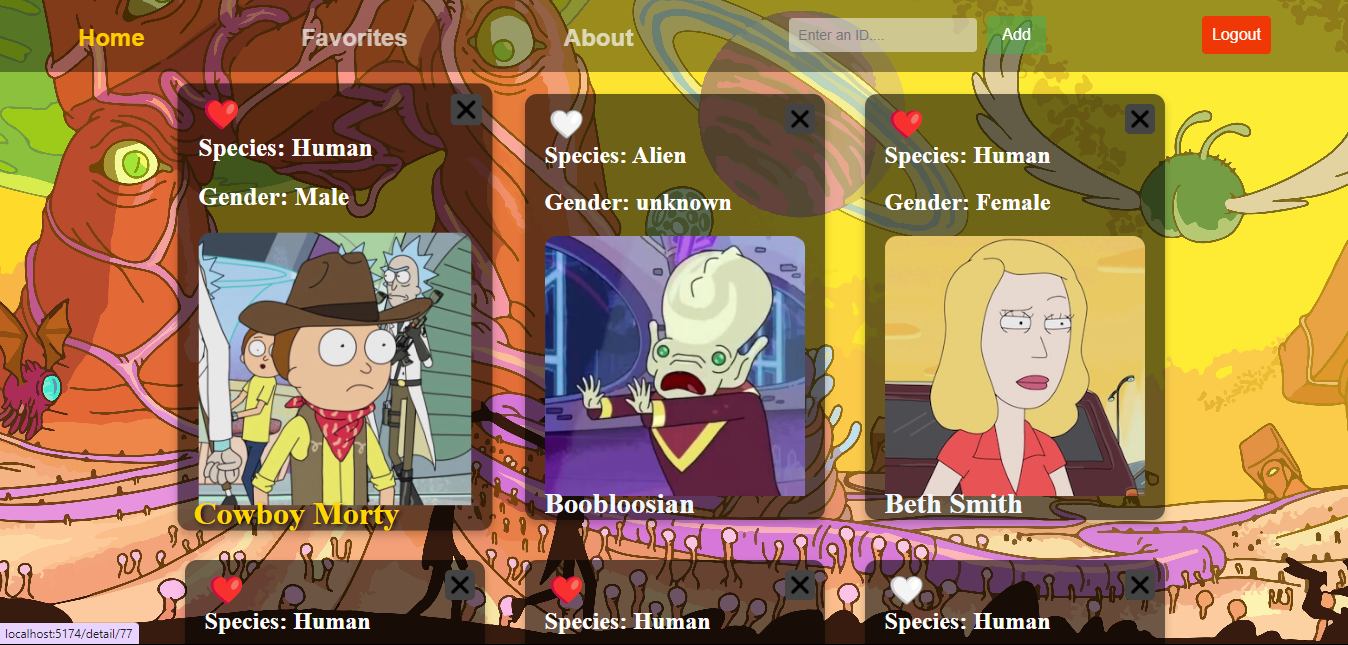
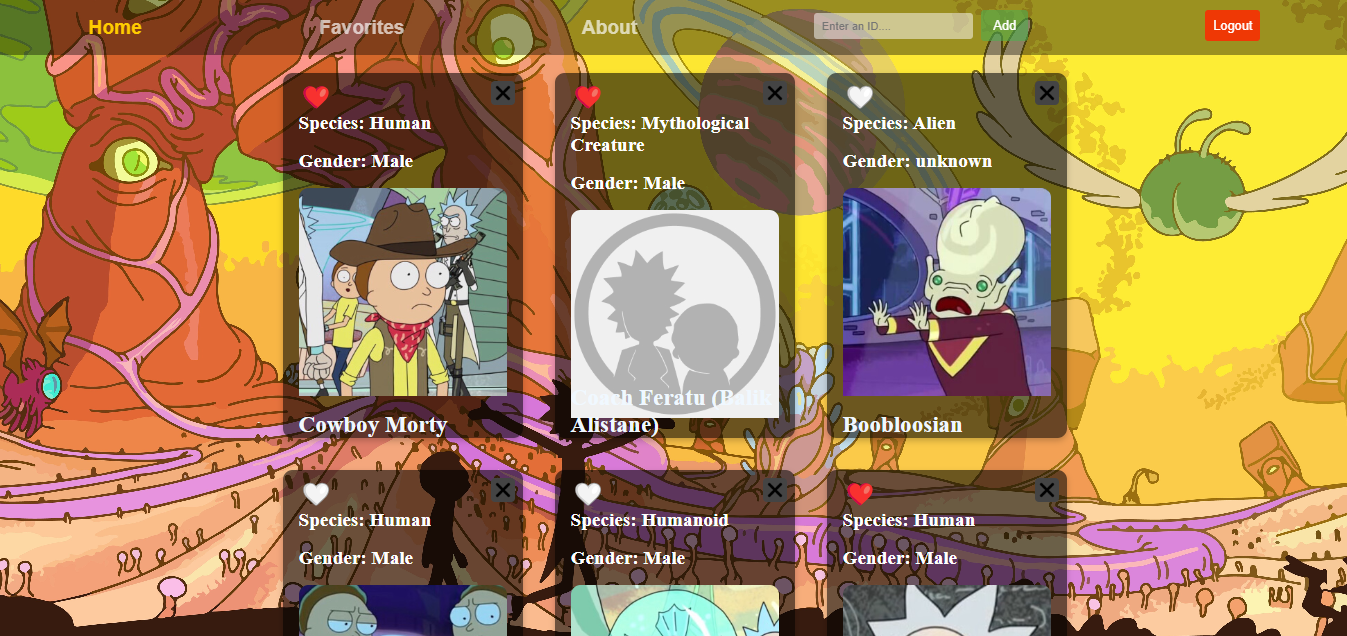
add RyM proyect

diff --git a/src/components/Projects.jsx b/src/components/Projects.jsx
@@ -4,7 +4,7 @@ import HeroesApp from '../assets/HeroesApp.png';
 import CountriesApp from '../assets/CountriesApp.png';
 import PetPalace from '../assets/PetPalace.jpeg';
 import Calendary from '../assets/Calendary.png'
-
+import RyM from '../assets/RyM.png'
 const projects = [
     {
         id: 1,
@@ -39,7 +39,7 @@ const projects = [
         deploy: ""
     },
     {
-        id: 7,
+        id: 6,
         name: "Gif App",
         technologies: "React.js, Bootstrap, CSS",
         image: GifApp,
@@ -47,13 +47,22 @@ const projects = [
         deploy: "https://castronicolas.github.io/react-GifApp/"
     },
     {
-        id: 6,
+        id: 7,
         name: "To Do App",
         technologies: "React.js, Bootstrap, CSS",
         image: ToDoApp,
         github: "https://github.com/CastroNicolas/react-tarea-app",
         deploy: "https://castronicolas.github.io/react-tarea-app/"
     },
+    {
+        id: 8,
+        name: "Rick and Morty App(Backend En Manteniemiento)",
+        technologies: "React.js, Node.js, Express, SQL, CSS",
+        image: RyM,
+        github: "https://github.com/CastroNicolas/RickAndMortyApp",
+        deploy: "https://rick-and-morty-ph003hv66-nicolas-castros-projects.vercel.app/"
+    },
+
 
 ];
 
